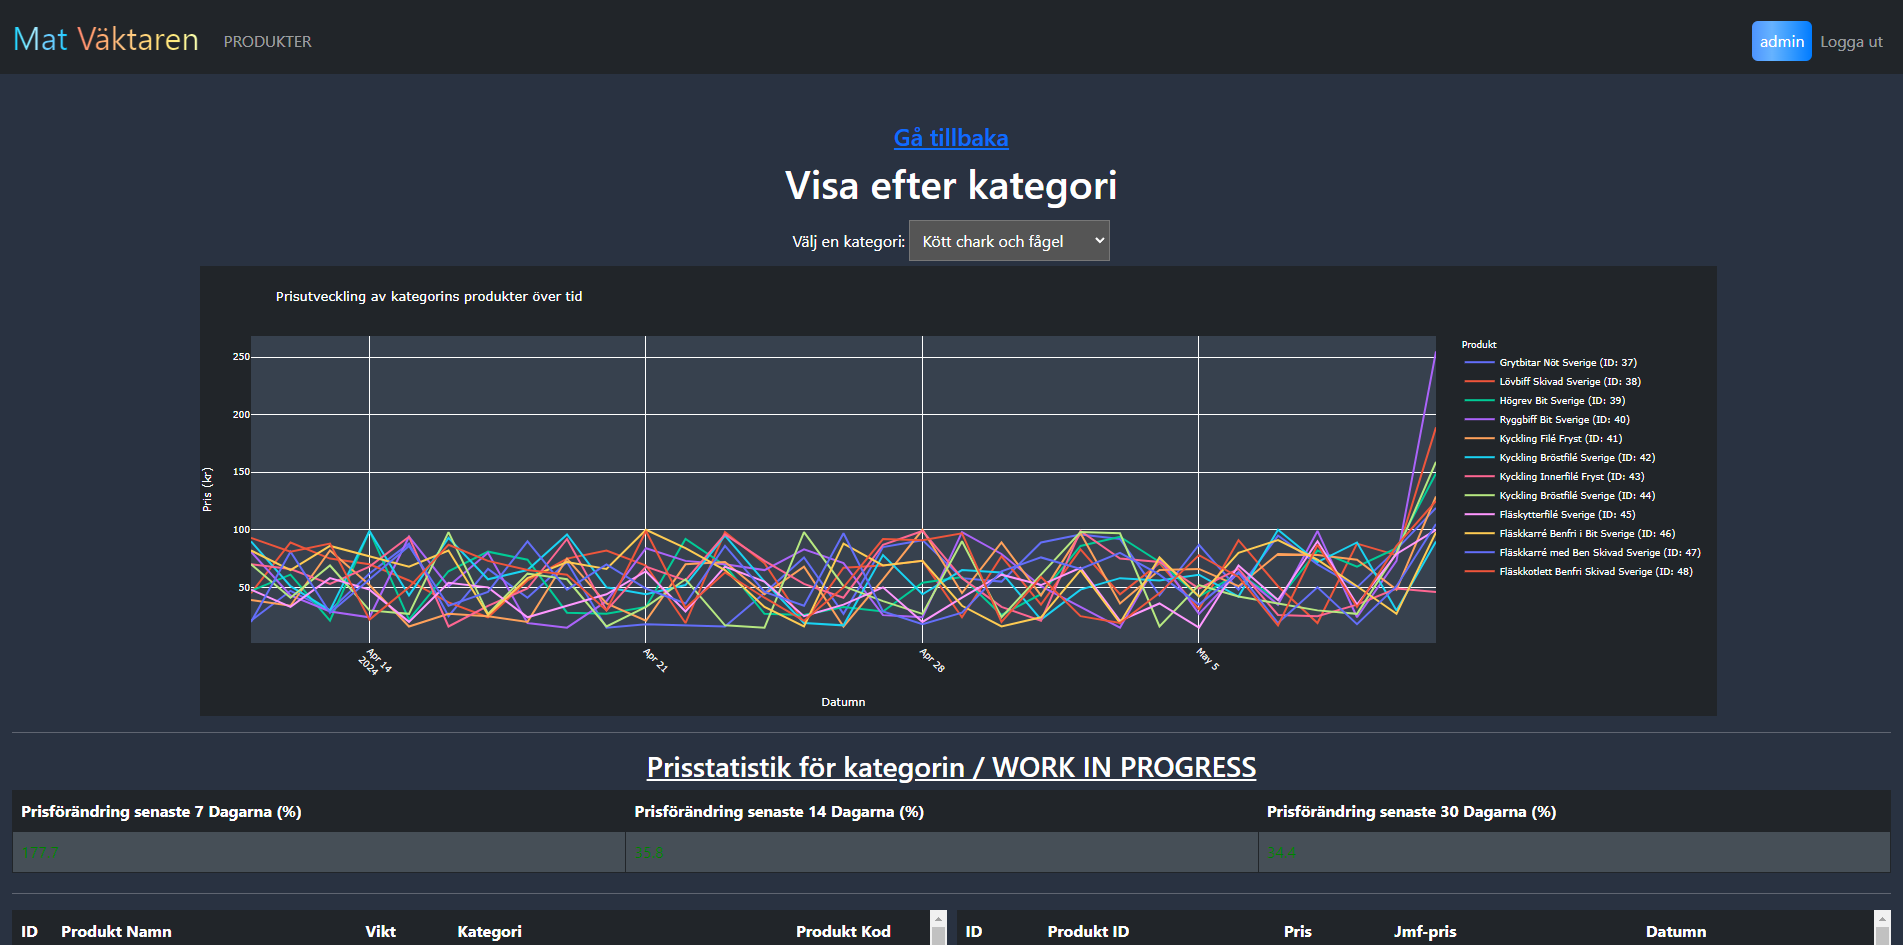
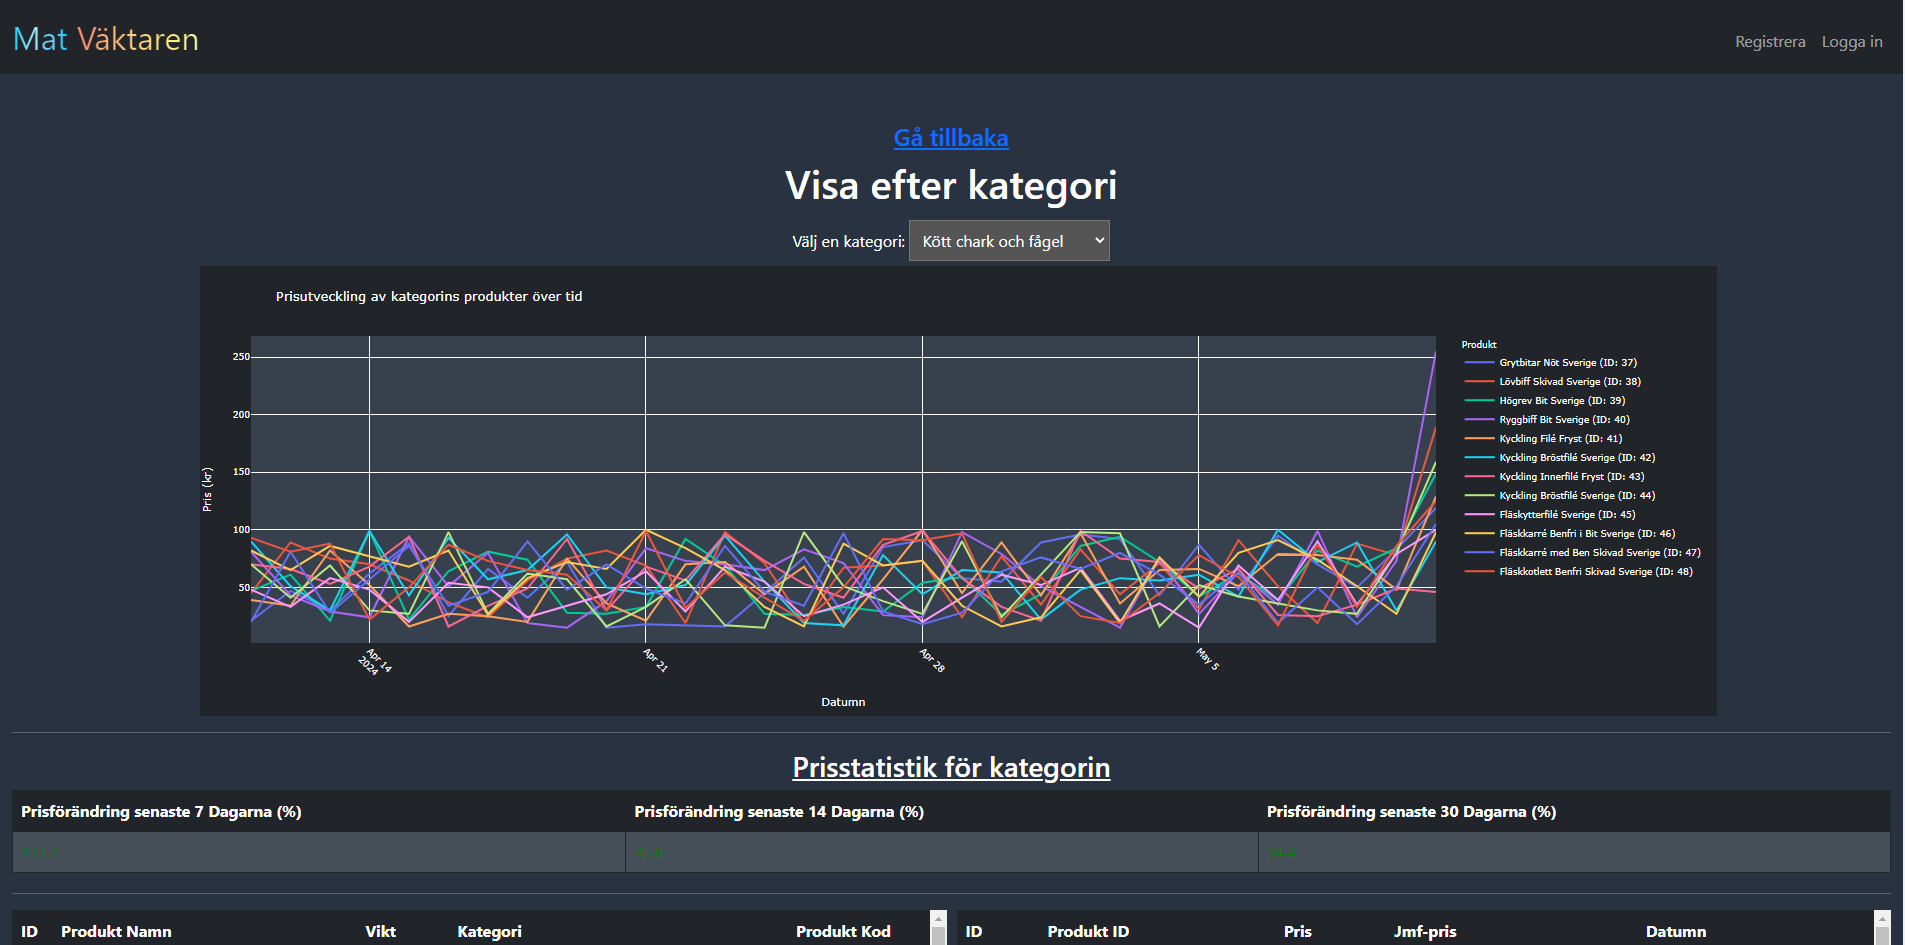
New screenshots

diff --git a/src/templates/category.html b/src/templates/category.html
@@ -57,7 +57,7 @@
 
 <hr>
 
-<u><h3>Prisstatistik för kategorin / WORK IN PROGRESS</h3></u>
+<u><h3>Prisstatistik för kategorin</h3></u>
 <table style="height: 1%;">
     <thead>
         <tr>    

diff --git a/src/templates/specificProduct.html b/src/templates/specificProduct.html
@@ -25,7 +25,7 @@
 
 <hr>
 
-<u><h3>Prisstatistik för produkten / WORK IN PROGRESS</h3></u>
+<u><h3>Prisstatistik för produkten</h3></u>
 <table style="height: 1%;">
     <thead>
         <tr>

diff --git a/src/templates/products.html b/src/templates/products.html
@@ -74,7 +74,7 @@
 
 <hr>
 
-<u><h3>Statistik av totalt pris / WORK IN PROGRESS</h3></u>
+<u><h3>Statistik av totalt pris</h3></u>
 <table style="height: 1%;">
     <thead>
         <tr>
